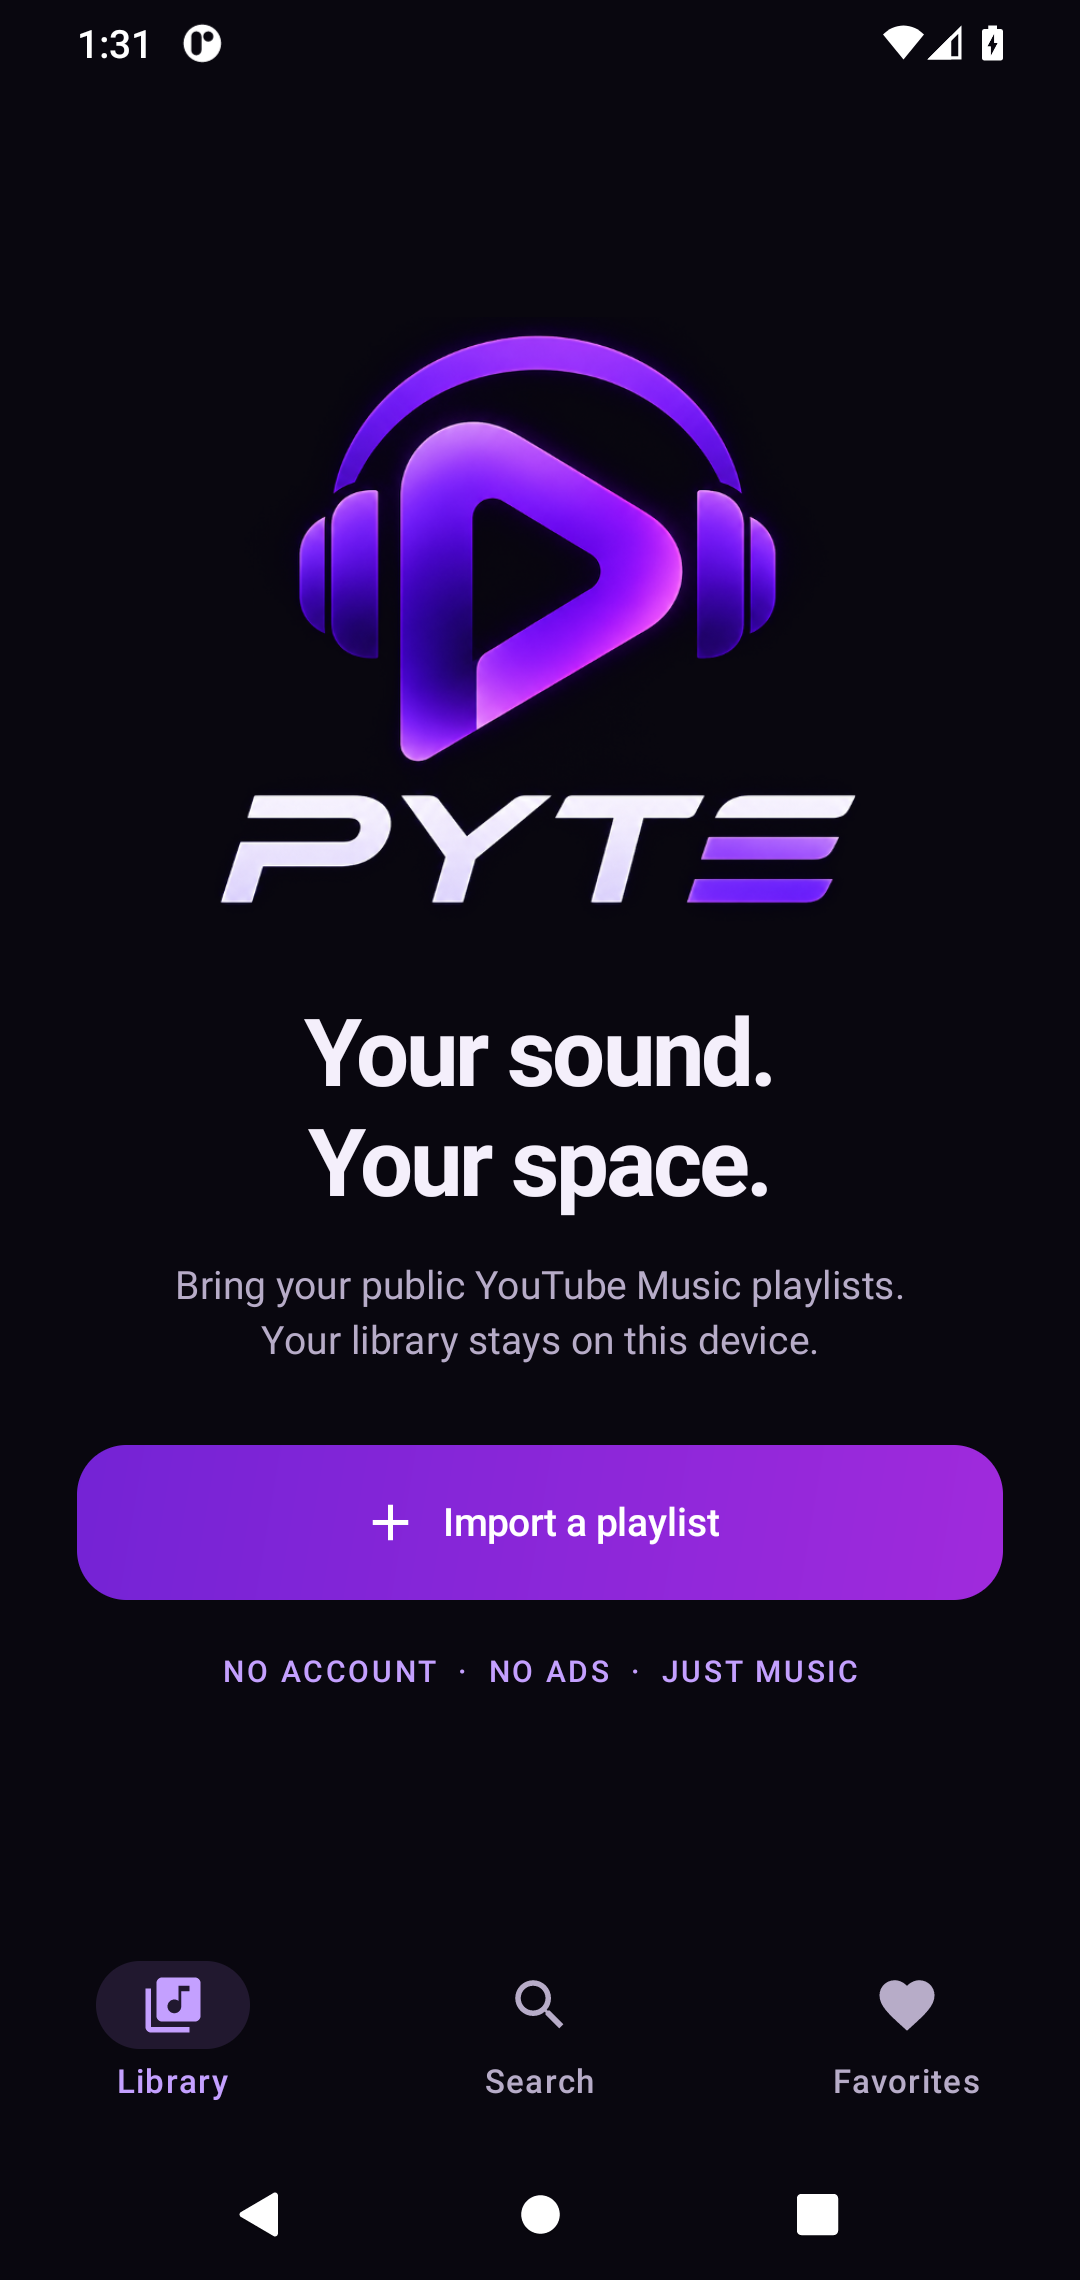
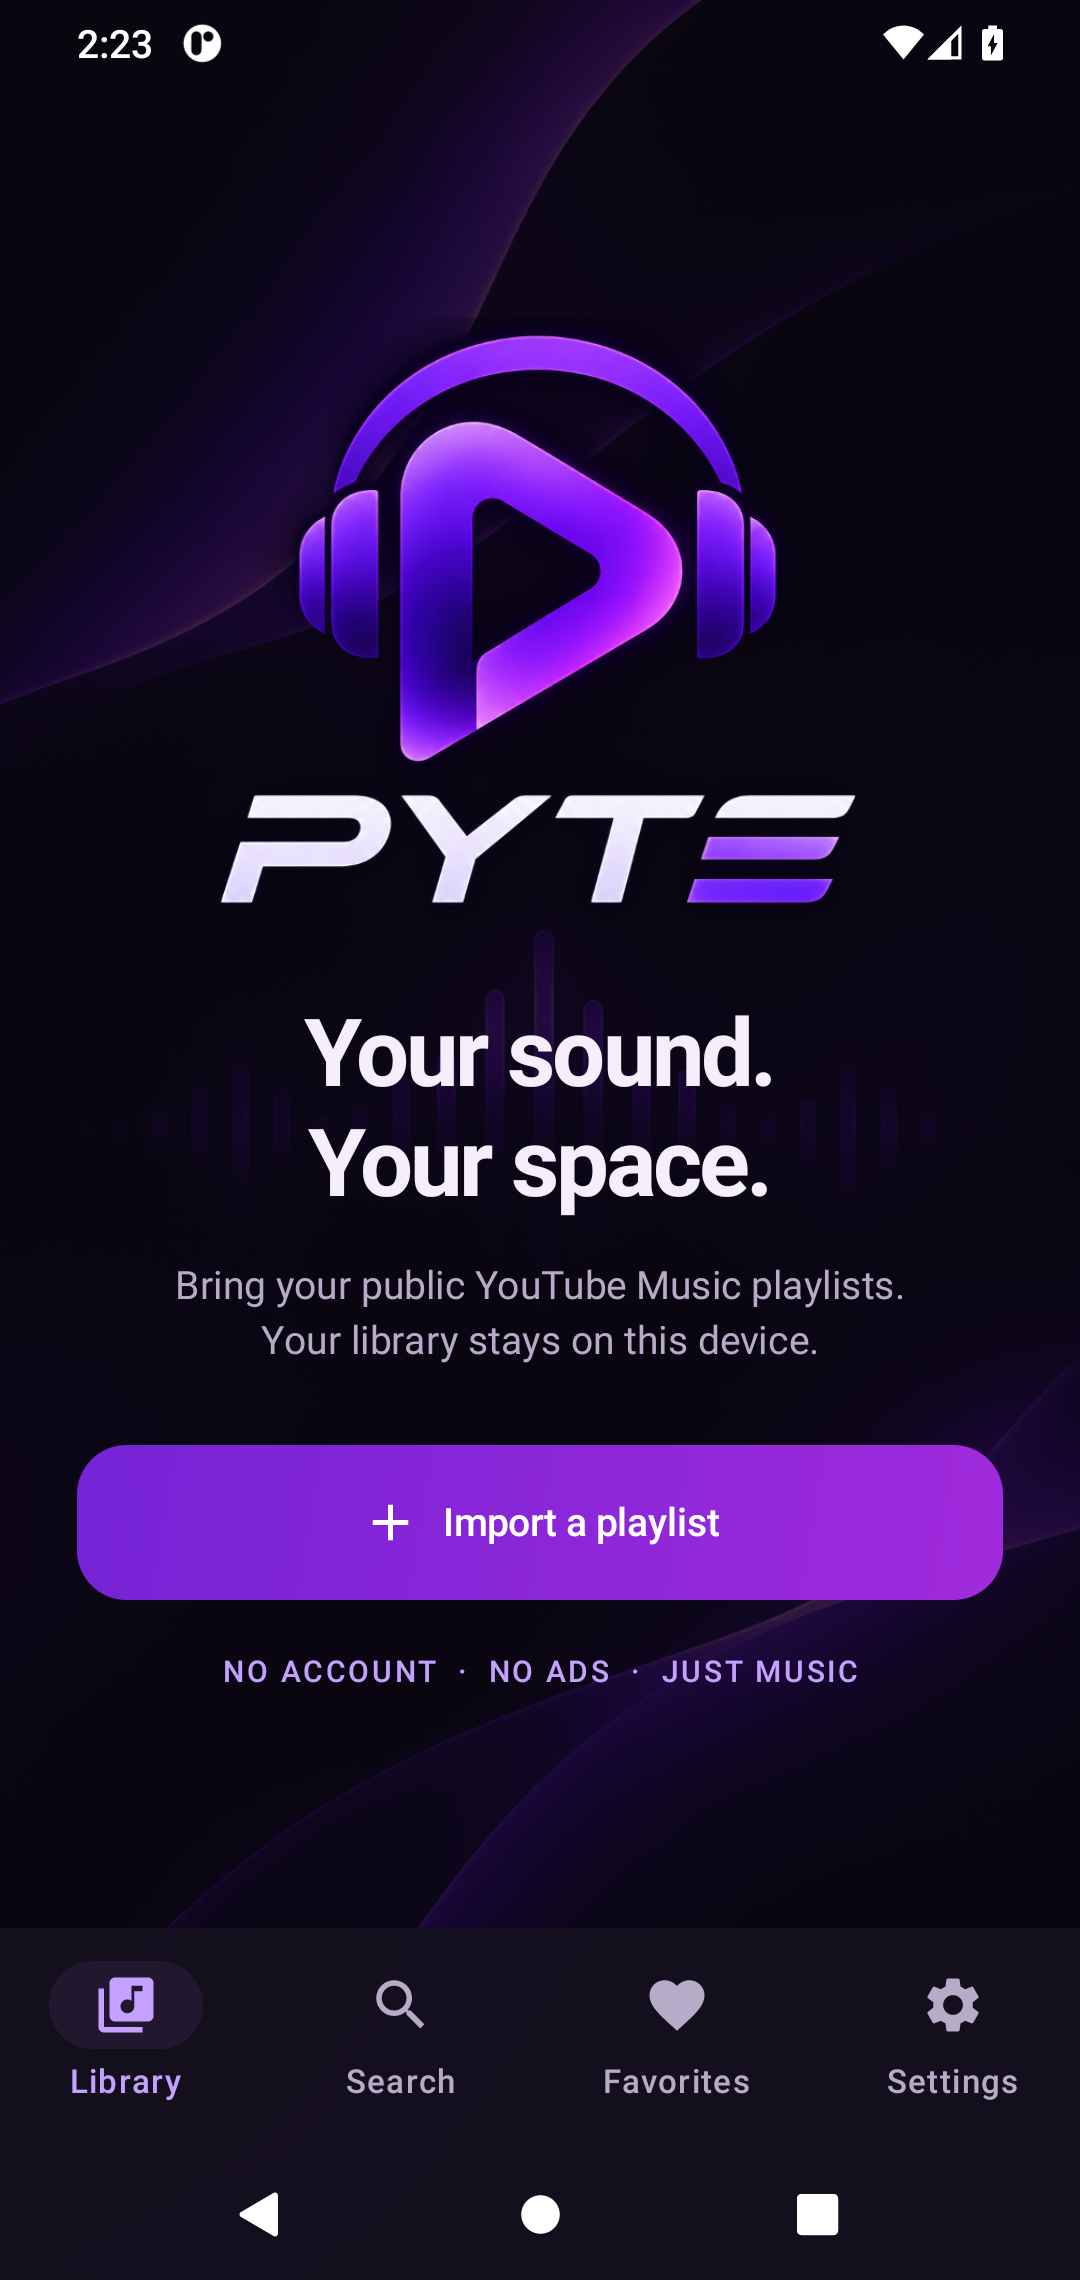
chore(release): prepare alpha 3 with search, settings and background artwork

diff --git a/README.md b/README.md
@@ -3,6 +3,7 @@
 A local-first Android music player for public YouTube Music playlists.
 
 <img src="docs/screenshots/welcome.png" width="260" alt="PYTE violet welcome screen captured on Android" />
+<img src="docs/screenshots/search.png" width="260" alt="PYTE online song search with the supplied background artwork" />
 
 - Paste a public playlist link once. No account, no login.
 - Plays audio directly, so there are no ads.
@@ -10,8 +11,13 @@ A local-first Android music player for public YouTube Music playlists.
 - All data stays on the device (Room database, on-device stream cache).
 - Rename and refresh playlists without losing local names or favorites; deletion asks for confirmation.
 - Search titles and artists locally with Unicode-aware full-text prefix matching.
+- Search YouTube Music songs online, load more results, and save songs to existing local
+  playlist copies or create a new on-device playlist. YouTube account playlists are never modified.
+- Locally added tracks survive refreshes from YouTube; adding the same song twice is prevented.
 - Add songs next/later, open the queue from Now Playing, move entries up/down, or remove them.
 - Recently played songs are recorded locally only after playback starts.
+- Settings: skip silence, enable/disable history recording, clear history with confirmation,
+  and view app/privacy information. Preferences are stored locally with DataStore.
 
 Android cloud backup and automatic device transfer are disabled. Keep the app installed when
 updating APKs: uninstalling or clearing app storage removes your local library. Explicit offline
@@ -36,7 +42,7 @@ Signed release builds: copy `keystore.properties.example` to `keystore.propertie
 |---|---|---|
 | UI | `ui/` | Jetpack Compose, Material 3, dark only |
 | Playback | `playback/` | `PlaybackService` (Media3 `MediaSessionService`) owns ExoPlayer. The UI only sends commands through a `MediaController`. |
-| Extraction | `data/remote/` | Anonymous visitor bootstrap + `VISIONOS` player, with `ANDROID_VR` / `IOS` fallbacks. `WEB_REMIX` playlist browsing with continuation tokens. |
+| Extraction | `data/remote/` | Anonymous visitor bootstrap + `VISIONOS` player, with `ANDROID_VR` / `IOS` fallbacks. `WEB_REMIX` playlist browsing and song search with continuation tokens. |
 | Storage | `data/local/` | Room: playlists, tracks, playlist order, favorites, history, FTS4 search |
 | Cache | `di/AppModule.kt` | Media3 `SimpleCache`, LRU, 1.5 GB |
 
@@ -52,8 +58,14 @@ See [CHANGELOG.md](CHANGELOG.md) and [TESTING.md](TESTING.md) for changes and ve
 ## Current development phase
 
 Phase 4 adds library management, a local FTS4 index, history, and queue editing using
-accessible move buttons (not drag-and-drop). The database migrates from version 1 to 2
-without destructive fallback; tests cover pre-existing playlists, order, and favorites.
+accessible move buttons (not drag-and-drop). Settings, online song search, and local playlist
+additions extend that baseline. The database migrates from versions 1/2 to 3 without
+destructive fallback; tests cover pre-existing playlists, order, favorites, history and local additions.
 Phase 5 remains offline downloads, cache management, and longer-running device resilience checks.
+
+To add a song: **Search → YouTube Music → enter a title/artist → press Search → song menu
+→ Add to local playlist**. Choose an existing playlist or enter a new local playlist name.
+The search uses YouTube Music's unofficial service; region, age, account restrictions and
+future upstream changes can affect results and playback. Finding a song does not guarantee playback.
 
 The violet design and original-logo asset pipeline are documented in [docs/DESIGN.md](docs/DESIGN.md).

diff --git a/TESTING.md b/TESTING.md
@@ -69,12 +69,31 @@ obtain a valid visitor identifier, use the VISIONOS player endpoint, and accompa
 URLs with the playback nonce. PYTE implements this protocol in its existing Kotlin/OkHttp
 client; NewPipeExtractor is not bundled as an application dependency.
 
-## Settings (0.2.0-alpha.2)
+## Online search + local playlist additions (0.2.0-alpha.3)
+
+- 55 unit tests passed (zero skipped), including live anonymous song search and continuation,
+  Room v1/v2 → v3 migrations, local additions surviving repeated source refreshes, duplicate
+  prevention, local-only playlist creation, settings persistence and history controls.
+- Contrast tests check semantic tokens plus every pixel of the supplied background after
+  its shared dark scrim. APK, Android test APK and lint builds passed.
+- Eight Android 11 emulator tests passed (zero skipped): queue controls, track action menu,
+  settings toggles/clear confirmation, local-playlist dialog interactions, live search →
+  create local playlist → open in library → delete, and live/background playback.
+- Welcome and search screens were visually checked with the new background; captures are
+  in `docs/screenshots/`. Published alpha.1 and the new APK have matching signing certificates.
+- Physical-phone update, long-duration screen-off/Doze playback and restricted/region-specific
+  catalog coverage still need checking. No guarantee of access to every YouTube Music track.
+
+Run the optional live unit search check with `PYTE_LIVE_SEARCH=true ./gradlew :app:testDebugUnitTest`.
+For Android tests, enable `-Pandroid.testInstrumentationRunnerArguments.liveSearch=true` as well
+as the existing live playback arguments.
+
+## Settings (0.2.0-alpha.2; included in alpha.3)
 
 - Unit tests cover settings defaults/persistence and independent switches, disabled history
   recording, re-enabling recording, and history deletion preserving playlists and favorites.
-- `SettingsUiTest` covers switch actions and the cancel/confirm deletion flow. The test APK
-  compiles; this new UI test has not yet been run on an emulator or physical device.
+- `SettingsUiTest` covers switch actions and the cancel/confirm deletion flow. It passed on
+  the Android 11 emulator as part of alpha.3 validation.
 - Manual device checks still needed: toggle skip silence while playing a track with quiet gaps,
   restart the app to check persistence, and clear history while retaining the current queue.
 

diff --git a/CHANGELOG.md b/CHANGELOG.md
@@ -1,6 +1,17 @@
 # Changelog
 
-## 0.2.0-alpha.2
+## 0.2.0-alpha.3
+
+- Search songs on YouTube Music without an account, load additional result pages, and play
+  results or add them to the queue. The original on-device search remains available.
+- Add songs to existing on-device playlist copies or create a new local playlist directly
+  from a search result. Nothing is written to a YouTube account; duplicate adds are prevented.
+- Migrate Room v1/v2 libraries to v3 without resetting data. Mark local additions so they
+  survive refreshes from YouTube, including when a song temporarily appears in the source.
+- Use the supplied background artwork throughout the app with a shared readability scrim.
+- Include the Settings tab from the previously unpublished alpha.2 changes below.
+
+## 0.2.0-alpha.2 (not published separately)
 
 - Add a violet Settings tab with locally persisted skip-silence and listening-history switches.
 - Apply skip-silence changes to active playback. Allow history recording to be disabled without

diff --git a/docs/DESIGN.md b/docs/DESIGN.md
@@ -52,3 +52,12 @@ places the headphones/play mark inside the adaptive-icon safe area. Generated PN
 Playlist headers and full player content scroll on short screens. System bar icons stay light
 because the app deliberately uses a dark-only theme. A captured Android welcome screen is in
 `docs/screenshots/welcome.png`; it is not a browser mockup.
+
+## App background (alpha.3)
+
+`app/src/img/background.png` is the supplied original. Its unchanged resource copy is
+`app/src/main/res/drawable-nodpi/pyte_background.png`. `AppBackground` draws it once behind
+the navigation root using a center crop and the shared `PyteBackgroundScrim` token. Main
+scaffolds are transparent with an explicit light content color; cards, dialogs and inputs
+retain solid semantic surfaces. A unit test checks text contrast over every artwork pixel
+after the scrim. `docs/screenshots/search.png` shows the actual Android search screen.
